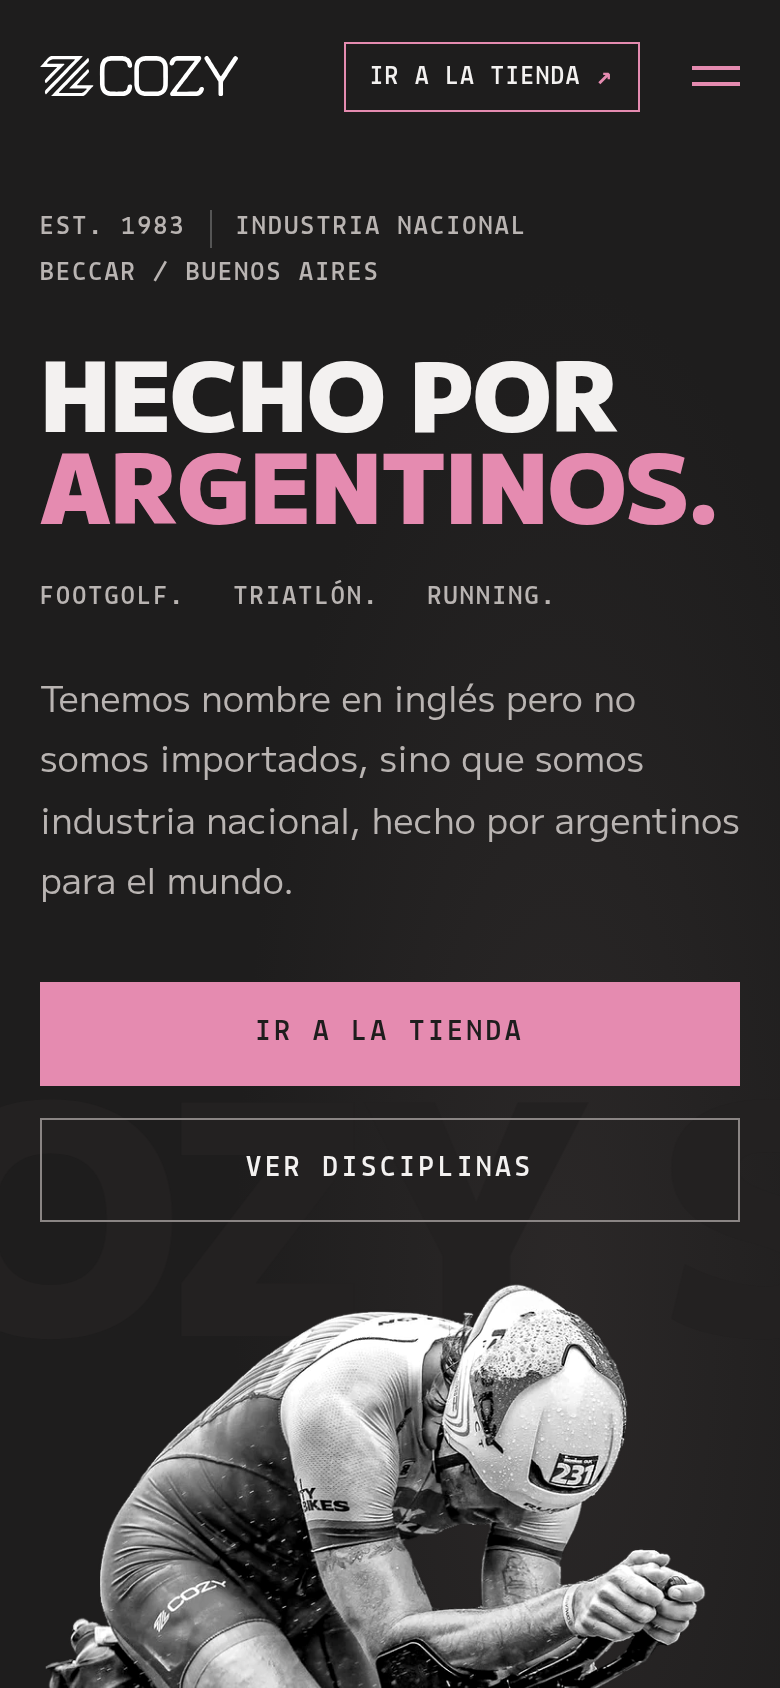
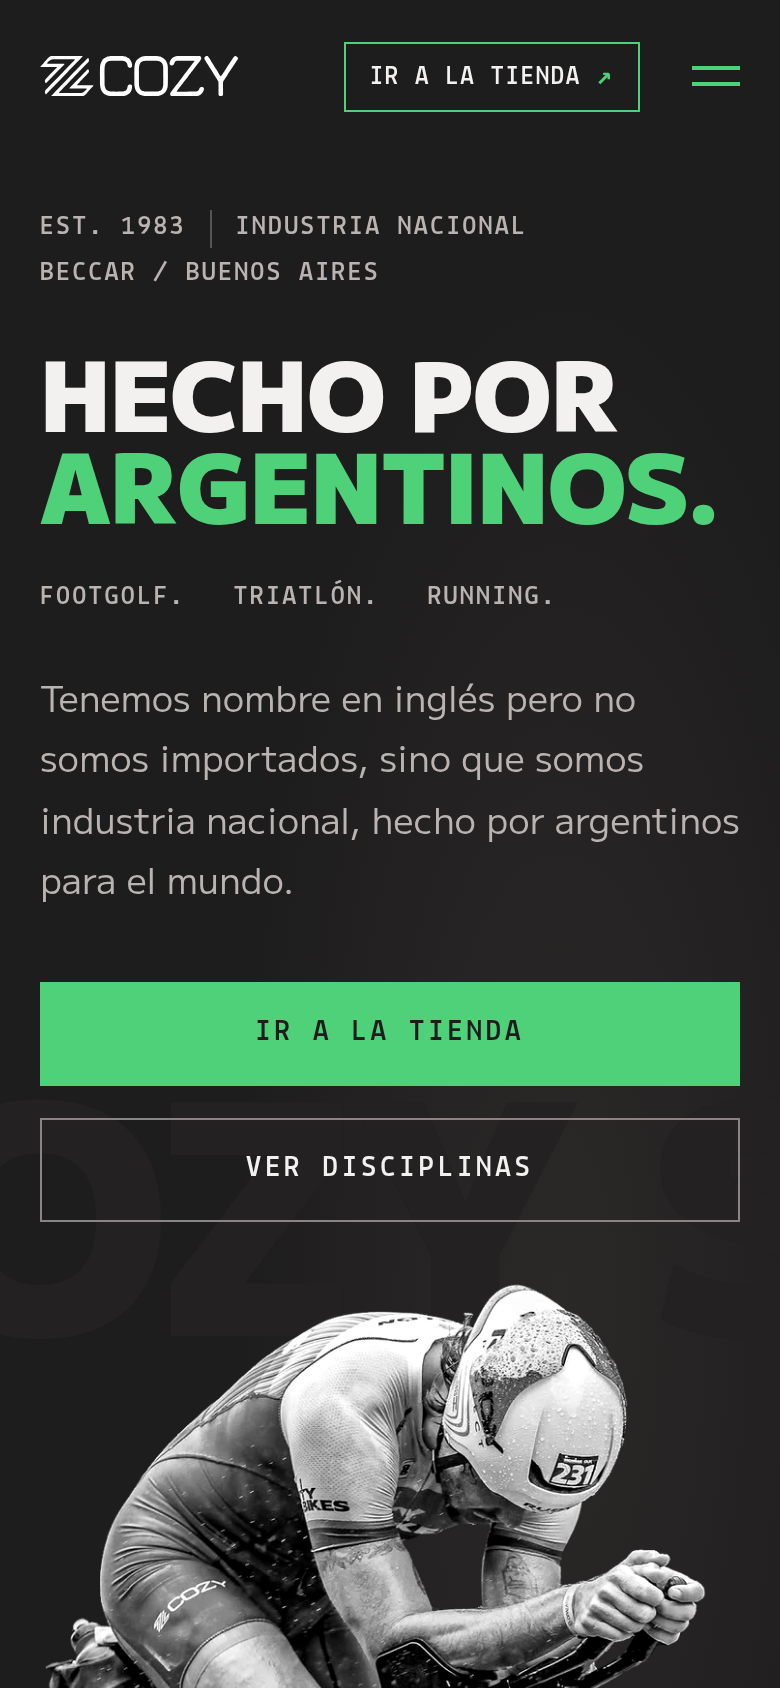
Acento verde (#4FD17A) en lugar del rosa (v=202610261205)

Changed region(s): [[0.0308, 0.5545, 0.9538, 0.6469], [0.0615, 0.2464, 0.9231, 0.3081], [0.8923, 0.0308, 0.9538, 0.0616]]

diff --git a/styles.css b/styles.css
@@ -1,7 +1,7 @@
 /* Cozy Sport · Fight */
 :root{
   --bg:#1E1D1D; --bg-2:#262424; --bg-3:#151414; --ink:#F3F1F0; --mute:#B9B4B2; --line:#3a3737;
-  --pink:#E58BB0; --pink-ink:#1E1D1D;
+  --green:#4FD17A; --green-ink:#1E1D1D;
   --display:"M PLUS 2", "Arial Black", system-ui, sans-serif;
   --mono:"Lekton", ui-monospace, "SFMono-Regular", Menlo, monospace;
   --pad:clamp(20px,5vw,96px); --ease:cubic-bezier(.16,1,.3,1);
@@ -12,26 +12,26 @@ body{background:var(--bg);color:var(--ink);font:400 17px/1.7 var(--display);-web
 img,video{display:block;max-width:100%;height:auto}
 a{color:inherit}
 ul,ol{list-style:none}
-em{font-style:normal;color:var(--pink)}
-.dot{color:var(--pink)}
+em{font-style:normal;color:var(--green)}
+.dot{color:var(--green)}
 .sr{position:absolute;width:1px;height:1px;overflow:hidden;clip:rect(0 0 0 0)}
-.skip{position:absolute;left:-999px;top:8px;background:var(--pink);color:var(--pink-ink);padding:10px 14px;z-index:99}
+.skip{position:absolute;left:-999px;top:8px;background:var(--green);color:var(--green-ink);padding:10px 14px;z-index:99}
 .skip:focus{left:8px}
-:focus-visible{outline:2px solid var(--pink);outline-offset:3px}
+:focus-visible{outline:2px solid var(--green);outline-offset:3px}
 
 .display{font-family:var(--display);font-weight:900;text-transform:uppercase;letter-spacing:-.01em;line-height:.92}
 .h2{font-size:clamp(40px,4.6vw,72px);margin-top:4px}
-.num{font:900 clamp(36px,3.4vw,52px)/1 var(--display);color:var(--pink)}
+.num{font:900 clamp(36px,3.4vw,52px)/1 var(--display);color:var(--green)}
 .label{font:700 15px/1.4 var(--mono);letter-spacing:.14em;text-transform:uppercase;color:var(--mute)}
 .meta{display:flex;flex-wrap:wrap;gap:0;font:700 15px/1.4 var(--mono);letter-spacing:.14em;text-transform:uppercase;color:var(--mute)}
 .meta span+span{border-left:1px solid #555;margin-left:18px;padding-left:18px}
 .meta--plain span+span{border:0;margin-left:26px;padding-left:0}
-.btn{display:inline-flex;align-items:center;justify-content:center;min-height:52px;padding:0 28px;font:700 15px/1 var(--mono);letter-spacing:.14em;text-transform:uppercase;text-decoration:none;border:1px solid var(--pink);transition:background .25s,color .25s,border-color .25s}
-.btn--pink{background:var(--pink);color:var(--pink-ink)}
-.btn--pink:hover{background:transparent;color:var(--pink)}
+.btn{display:inline-flex;align-items:center;justify-content:center;min-height:52px;padding:0 28px;font:700 15px/1 var(--mono);letter-spacing:.14em;text-transform:uppercase;text-decoration:none;border:1px solid var(--green);transition:background .25s,color .25s,border-color .25s}
+.btn--green{background:var(--green);color:var(--green-ink)}
+.btn--green:hover{background:transparent;color:var(--green)}
 .btn--line{border-color:#8a8584;color:var(--ink)}
 .btn--line:hover{border-color:var(--ink)}
-.ghost{position:absolute;pointer-events:none;user-select:none;font:900 clamp(110px,15vw,240px)/.85 var(--display);text-transform:uppercase;letter-spacing:-.02em;white-space:nowrap;color:transparent;-webkit-text-stroke:1px rgba(229,139,176,.22)}
+.ghost{position:absolute;pointer-events:none;user-select:none;font:900 clamp(110px,15vw,240px)/.85 var(--display);text-transform:uppercase;letter-spacing:-.02em;white-space:nowrap;color:transparent;-webkit-text-stroke:1px rgba(79,209,122,.22)}
 .ghost--h{left:50%;transform:translateX(-50%);top:clamp(40px,5vw,72px)}
 .ghost--r{left:auto;right:-2vw;transform:none}
 .ghost--v{writing-mode:vertical-rl;transform:rotate(180deg);right:calc(var(--pad) + 2vw);top:50%;translate:0 -50%;font-size:clamp(120px,12vw,200px);-webkit-text-stroke:1px rgba(243,241,240,.10)}
@@ -43,12 +43,12 @@ em{font-style:normal;color:var(--pink)}
 .head__nav{display:flex;gap:30px;margin-left:auto}
 .head__nav a,.head__store{font:700 15px/1 var(--mono);letter-spacing:.12em;text-transform:uppercase;text-decoration:none;color:var(--mute);transition:color .2s}
 .head__nav a:hover{color:var(--ink)}
-.head__store{color:var(--ink);border:1px solid var(--pink);padding:12px 16px}
-.head__store span{color:var(--pink)}
-.head__store:hover{background:var(--pink);color:var(--pink-ink)}
-.head__store:hover span{color:var(--pink-ink)}
+.head__store{color:var(--ink);border:1px solid var(--green);padding:12px 16px}
+.head__store span{color:var(--green)}
+.head__store:hover{background:var(--green);color:var(--green-ink)}
+.head__store:hover span{color:var(--green-ink)}
 .head__toggle{display:none;background:none;border:0;width:44px;height:44px;position:relative;cursor:pointer;margin-right:-10px}
-.head__toggle i{position:absolute;left:10px;right:10px;height:2px;background:var(--pink);transition:transform .3s}
+.head__toggle i{position:absolute;left:10px;right:10px;height:2px;background:var(--green);transition:transform .3s}
 .head__toggle i:first-of-type{top:17px}.head__toggle i:last-of-type{top:25px}
 .head__toggle[aria-expanded=true] i:first-of-type{transform:translateY(4px) rotate(45deg)}
 .head__toggle[aria-expanded=true] i:last-of-type{transform:translateY(-4px) rotate(-45deg)}
@@ -68,11 +68,11 @@ em{font-style:normal;color:var(--pink)}
 .about{background:var(--bg-2)}
 .about__grid{position:relative;display:grid;grid-template-columns:1.2fr 1fr;gap:clamp(40px,7vw,120px);align-items:end;padding-top:clamp(40px,6vw,90px)}
 .stats{display:grid;grid-template-columns:repeat(4,auto);justify-content:start;gap:20px 52px;margin-top:48px}
-.stats dt{font:900 clamp(34px,3vw,46px)/1 var(--display);color:var(--pink);font-variant-numeric:tabular-nums}
+.stats dt{font:900 clamp(34px,3vw,46px)/1 var(--display);color:var(--green);font-variant-numeric:tabular-nums}
 .stats dd{font:700 14px/1.4 var(--mono);letter-spacing:.12em;text-transform:uppercase;color:var(--mute);margin-top:8px}
 .about__text p+p{margin-top:18px}
 .about__text p{color:#d9d5d3}
-.pink-line{font:700 17px/1.5 var(--mono)!important;color:var(--pink)!important;letter-spacing:.06em}
+.green-line{font:700 17px/1.5 var(--mono)!important;color:var(--green)!important;letter-spacing:.06em}
 
 /* Accordion */
 .disc{background:var(--bg-3)}
@@ -83,7 +83,7 @@ em{font-style:normal;color:var(--pink)}
 .acc__tab{position:absolute;inset:0;display:flex;flex-direction:column;align-items:center;justify-content:space-between;padding:28px 0 22px;background:none;border:0;color:var(--ink);cursor:pointer;transition:background .25s,opacity .25s}
 .acc__tab:hover{background:#1f1d1d}
 .acc__label{writing-mode:vertical-rl;transform:rotate(180deg);font:900 22px/1 var(--display);text-transform:uppercase;letter-spacing:.01em;white-space:nowrap}
-.acc__arrow{display:grid;place-items:center;width:28px;height:28px;background:var(--pink);color:var(--pink-ink);font:700 15px/1 var(--mono)}
+.acc__arrow{display:grid;place-items:center;width:28px;height:28px;background:var(--green);color:var(--green-ink);font:700 15px/1 var(--mono)}
 .acc__item.is-on .acc__tab{opacity:0;pointer-events:none}
 .acc__panel{position:absolute;inset:0;display:grid;grid-template-rows:1fr auto;opacity:0;visibility:hidden;transition:opacity .4s,visibility 0s .4s}
 .acc__item.is-on .acc__panel{opacity:1;visibility:visible;transition:opacity .2s}
@@ -96,7 +96,7 @@ em{font-style:normal;color:var(--pink)}
 .acc__item.is-on .acc__body>h3{transition-delay:.3s}.acc__item.is-on .acc__body>p{transition-delay:.4s}.acc__item.is-on .acc__body>dl{transition-delay:.5s}
 .acc__img{overflow:hidden;min-height:0}
 .acc__img img{width:100%;height:100%;object-fit:cover;filter:grayscale(1) contrast(1.05)}
-.acc__body{background:var(--pink);color:var(--pink-ink);padding:26px 30px 28px}
+.acc__body{background:var(--green);color:var(--green-ink);padding:26px 30px 28px}
 .acc__body h3{font:900 30px/1 var(--display);text-transform:uppercase;margin-bottom:10px}
 .acc__body p{font-size:16.5px;line-height:1.55;max-width:62ch}
 .acc__body dl{display:flex;flex-wrap:wrap;gap:6px 36px;margin-top:14px;font:700 15px/1.4 var(--mono);text-transform:uppercase;letter-spacing:.08em}
@@ -116,7 +116,7 @@ em{font-style:normal;color:var(--pink)}
 .svc__media video{width:100%;aspect-ratio:4/5;object-fit:cover;filter:grayscale(1) contrast(1.05);background:#2a2828}
 .steps{margin-top:44px;border-top:1px solid var(--line)}
 .steps li{display:grid;grid-template-columns:64px 1fr;gap:18px;padding:24px 0;border-bottom:1px solid var(--line)}
-.steps__n{font:700 17px/1.6 var(--mono);color:var(--pink)}
+.steps__n{font:700 17px/1.6 var(--mono);color:var(--green)}
 .steps h3{font:900 22px/1.2 var(--display);text-transform:uppercase;margin-bottom:6px}
 .steps p{color:var(--mute)}
 
@@ -125,7 +125,7 @@ em{font-style:normal;color:var(--pink)}
 .tl{margin-top:56px}
 .tl__head{display:grid;grid-template-columns:180px 1fr 1.6fr;gap:32px;padding:0 0 14px;border-bottom:1px solid var(--line);font:700 14px/1 var(--mono);letter-spacing:.14em;text-transform:uppercase;color:var(--mute)}
 .tl__row{display:grid;grid-template-columns:180px 1fr 1.6fr;gap:32px;align-items:baseline;padding:26px 0;border-bottom:1px solid var(--line)}
-.tl__y{font:900 26px/1 var(--display);text-transform:uppercase;color:var(--pink)}
+.tl__y{font:900 26px/1 var(--display);text-transform:uppercase;color:var(--green)}
 .tl__row h3{font:900 21px/1.2 var(--display);text-transform:uppercase}
 .tl__t{color:var(--mute)}
 
@@ -141,7 +141,7 @@ em{font-style:normal;color:var(--pink)}
 .ath__img{aspect-ratio:3/4;overflow:hidden;background:#2a2828}
 .ath__img img{width:100%;height:100%;object-fit:cover;filter:grayscale(1) contrast(1.05);-webkit-user-drag:none;pointer-events:none}
 .ath__info{display:none}
-.ath__s{font:700 14px/1.4 var(--mono);letter-spacing:.1em;text-transform:uppercase;color:var(--pink);margin-top:6px}
+.ath__s{font:700 14px/1.4 var(--mono);letter-spacing:.1em;text-transform:uppercase;color:var(--green);margin-top:6px}
 .car__foot{display:grid;grid-template-columns:1fr auto;gap:32px;align-items:end;padding:36px var(--pad) 0}
 .car__bio{min-height:112px}
 .car__bio h3{font:900 28px/1.1 var(--display);text-transform:uppercase}
@@ -153,9 +153,9 @@ em{font-style:normal;color:var(--pink)}
 .car__count{font:700 15px/1 var(--mono);letter-spacing:.1em;color:var(--mute);font-variant-numeric:tabular-nums}
 .car__count span:first-child{color:var(--ink)}
 .car__bar{width:160px;height:1px;background:var(--line);position:relative}
-.car__bar span{position:absolute;left:0;top:-.5px;height:2px;width:0;background:var(--pink);transition:width .5s var(--ease)}
+.car__bar span{position:absolute;left:0;top:-.5px;height:2px;width:0;background:var(--green);transition:width .5s var(--ease)}
 .car__btn{width:48px;height:48px;border:1px solid #5a5656;background:none;color:var(--ink);font:700 18px/1 var(--mono);cursor:pointer;transition:border-color .2s,background .2s,color .2s}
-.car__btn:hover{background:var(--pink);border-color:var(--pink);color:var(--pink-ink)}
+.car__btn:hover{background:var(--green);border-color:var(--green);color:var(--green-ink)}
 
 /* Quote */
 .quote{position:relative;display:grid;grid-template-columns:1fr 1fr;min-height:620px;background:var(--bg-3);overflow:hidden}
@@ -165,7 +165,7 @@ em{font-style:normal;color:var(--pink)}
 .quote__img::before{content:"";position:absolute;inset:0;z-index:1;background:linear-gradient(90deg,var(--bg-3) 0%,rgba(21,20,20,0) 45%)}
 .quote__text{grid-column:1;grid-row:1;align-self:center;padding:96px var(--pad);position:relative;z-index:2}
 .quote__text p{font-size:clamp(38px,4vw,64px)}
-.quote__mark{display:block;font:900 120px/.6 var(--display);color:var(--pink);height:56px}
+.quote__mark{display:block;font:900 120px/.6 var(--display);color:var(--green);height:56px}
 .quote__text footer{margin-top:28px;font:700 15px/1 var(--mono);letter-spacing:.14em;text-transform:uppercase;color:var(--mute)}
 
 /* Team */
@@ -173,8 +173,8 @@ em{font-style:normal;color:var(--pink)}
 .people{display:grid;grid-template-columns:repeat(5,1fr);gap:48px 24px;margin-top:56px}
 .person__img{aspect-ratio:1;overflow:hidden;background:#2f2c2c;display:flex;align-items:center;justify-content:center;margin-bottom:16px}
 .person__img img{width:100%;height:100%;object-fit:cover;filter:grayscale(1)}
-.person__ini{font:900 64px/1 var(--display);color:transparent;-webkit-text-stroke:1px var(--pink)}
-.person__r{font:700 14px/1.4 var(--mono);letter-spacing:.1em;text-transform:uppercase;color:var(--pink)}
+.person__ini{font:900 64px/1 var(--display);color:transparent;-webkit-text-stroke:1px var(--green)}
+.person__r{font:700 14px/1.4 var(--mono);letter-spacing:.1em;text-transform:uppercase;color:var(--green)}
 .person h3{font:900 21px/1.2 var(--display);text-transform:uppercase;margin:4px 0 6px}
 .person__d{color:var(--mute);font-size:16px;line-height:1.5}
 
@@ -191,7 +191,7 @@ em{font-style:normal;color:var(--pink)}
 .foot__grid{display:grid;grid-template-columns:1.4fr 1fr 1.3fr 1fr;gap:40px}
 .foot__brand img{height:28px;width:auto;margin-bottom:18px}
 .foot__brand p{font:900 20px/1.2 var(--display);text-transform:uppercase;max-width:16ch}
-.foot .label{margin-bottom:14px;color:var(--pink)}
+.foot .label{margin-bottom:14px;color:var(--green)}
 .foot nav a,.foot__grid>div>a{display:block;color:var(--mute);text-decoration:none;line-height:1.6;margin-bottom:6px}
 .foot a:hover{color:var(--ink)}
 .foot__bar{display:flex;justify-content:space-between;gap:20px;flex-wrap:wrap;margin-top:64px;padding-top:22px;border-top:1px solid var(--line);font:700 14px/1.4 var(--mono);letter-spacing:.1em;text-transform:uppercase;color:var(--mute)}
@@ -235,7 +235,7 @@ em{font-style:normal;color:var(--pink)}
   .head.is-scrolled{padding-top:12px;padding-bottom:12px}
   .head__toggle{display:block}
   .head__store{margin-left:auto;padding:10px 12px;font-size:14px}
-  .head__nav{position:absolute;top:100%;left:0;right:0;flex-direction:column;gap:0;margin:0;background:var(--bg);padding:6px var(--pad) 24px;border-bottom:1px solid var(--pink);opacity:0;pointer-events:none;transform:translateY(-6px);transition:opacity .25s,transform .25s}
+  .head__nav{position:absolute;top:100%;left:0;right:0;flex-direction:column;gap:0;margin:0;background:var(--bg);padding:6px var(--pad) 24px;border-bottom:1px solid var(--green);opacity:0;pointer-events:none;transform:translateY(-6px);transition:opacity .25s,transform .25s}
   .head__nav.is-open{opacity:1;pointer-events:auto;transform:none}
   .head__nav a{padding:18px 0;border-bottom:1px solid var(--line);font-size:16px}
   .hero{grid-template-columns:1fr;min-height:0;padding-top:28px;gap:0}

diff --git a/index.html b/index.html
@@ -18,7 +18,7 @@
 <link rel="preconnect" href="https://fonts.gstatic.com" crossorigin>
 <link href="https://fonts.googleapis.com/css2?family=M+PLUS+2:wght@400;500;700;900&family=Lekton:wght@400;700&display=swap" rel="stylesheet">
 <link rel="preload" as="image" href="assets/cozy-triatleta-cutout.webp">
-<link rel="stylesheet" href="styles.css?v=202610261130">
+<link rel="stylesheet" href="styles.css?v=202610261205">
 <script>(function(d){var h=d.documentElement;h.className+=' js anim';setTimeout(function(){if(!window.__cozyAnim)h.className=h.className.replace(/\banim\b/,'')},2500)})(document)</script>
 </head>
 <body id="top">
@@ -49,7 +49,7 @@
     <p class="meta meta--plain"><span>Footgolf.</span><span>Triatlón.</span><span>Running.</span></p>
     <p class="hero__lead">Tenemos nombre en inglés pero no somos importados, sino que somos industria nacional, hecho por argentinos para el mundo.</p>
     <div class="hero__cta">
-      <a class="btn btn--pink" href="https://cozy-sport.vercel.app" target="_blank" rel="noopener">Ir a la tienda</a>
+      <a class="btn btn--green" href="https://cozy-sport.vercel.app" target="_blank" rel="noopener">Ir a la tienda</a>
       <a class="btn btn--line" href="#disciplinas">Ver disciplinas</a>
     </div>
   </div>
@@ -75,7 +75,7 @@
     <div class="about__text">
       <p>Somos una empresa familiar, por lo que cada prenda lleva nuestro cariño. Somos un equipo, comprometido a crear tus sueños.</p>
       <p>No hacemos por hacer: pensamos cada producto como único, para que la persona que lo usa sienta que es especial.</p>
-      <p class="pink-line">“Apasionados por el deporte.”</p>
+      <p class="green-line">“Apasionados por el deporte.”</p>
     </div>
   </div>
 </section>
@@ -239,7 +239,7 @@
       <h2 id="cta-title" class="display cta__title">¿Listo para vestir<br><em>a tu equipo?</em></h2>
     </div>
     <div class="cta__side">
-      <a class="btn btn--pink" href="mailto:info@cozysport.com?subject=Consulta%20desde%20la%20web">Escribinos</a>
+      <a class="btn btn--green" href="mailto:info@cozysport.com?subject=Consulta%20desde%20la%20web">Escribinos</a>
       <p>info@cozysport.com</p>
       <p class="cta__small">Ingresá a nuestra tienda online. Comprá desde tu casa, nosotros te lo llevamos.</p>
       <a class="btn btn--line" href="https://cozy-sport.vercel.app" target="_blank" rel="noopener">Ir a la tienda ↗</a>
@@ -274,6 +274,6 @@
   </div>
   <div class="foot__bar"><p>© <span id="y">2026</span> Cozy Sport SA</p><p>Industria nacional desde 1983</p><a href="#top">Volver arriba ↑</a></div>
 </footer>
-<script src="main.js?v=202610261130" defer></script>
+<script src="main.js?v=202610261205" defer></script>
 </body>
 </html>

diff --git a/README.md b/README.md
@@ -2,7 +2,7 @@
 
 **Ver el sitio online:** [https://juancjose.github.io/cozy-portfolio-fight/](https://juancjose.github.io/cozy-portfolio-fight/)
 
-Séptima versión del portfolio de Cozy Sport, industria nacional desde 1983. Sitio estático (HTML, CSS y JS sin build) inspirado en la estética "fight club": fondo carbón, fotos en blanco y negro, un solo acento rosa, tipografías M PLUS 2 y Lekton, secciones numeradas.
+Séptima versión del portfolio de Cozy Sport, industria nacional desde 1983. Sitio estático (HTML, CSS y JS sin build) inspirado en la estética "fight club": fondo carbón, fotos en blanco y negro, un solo acento verde, tipografías M PLUS 2 y Lekton, secciones numeradas.
 
 ## Secciones
 
